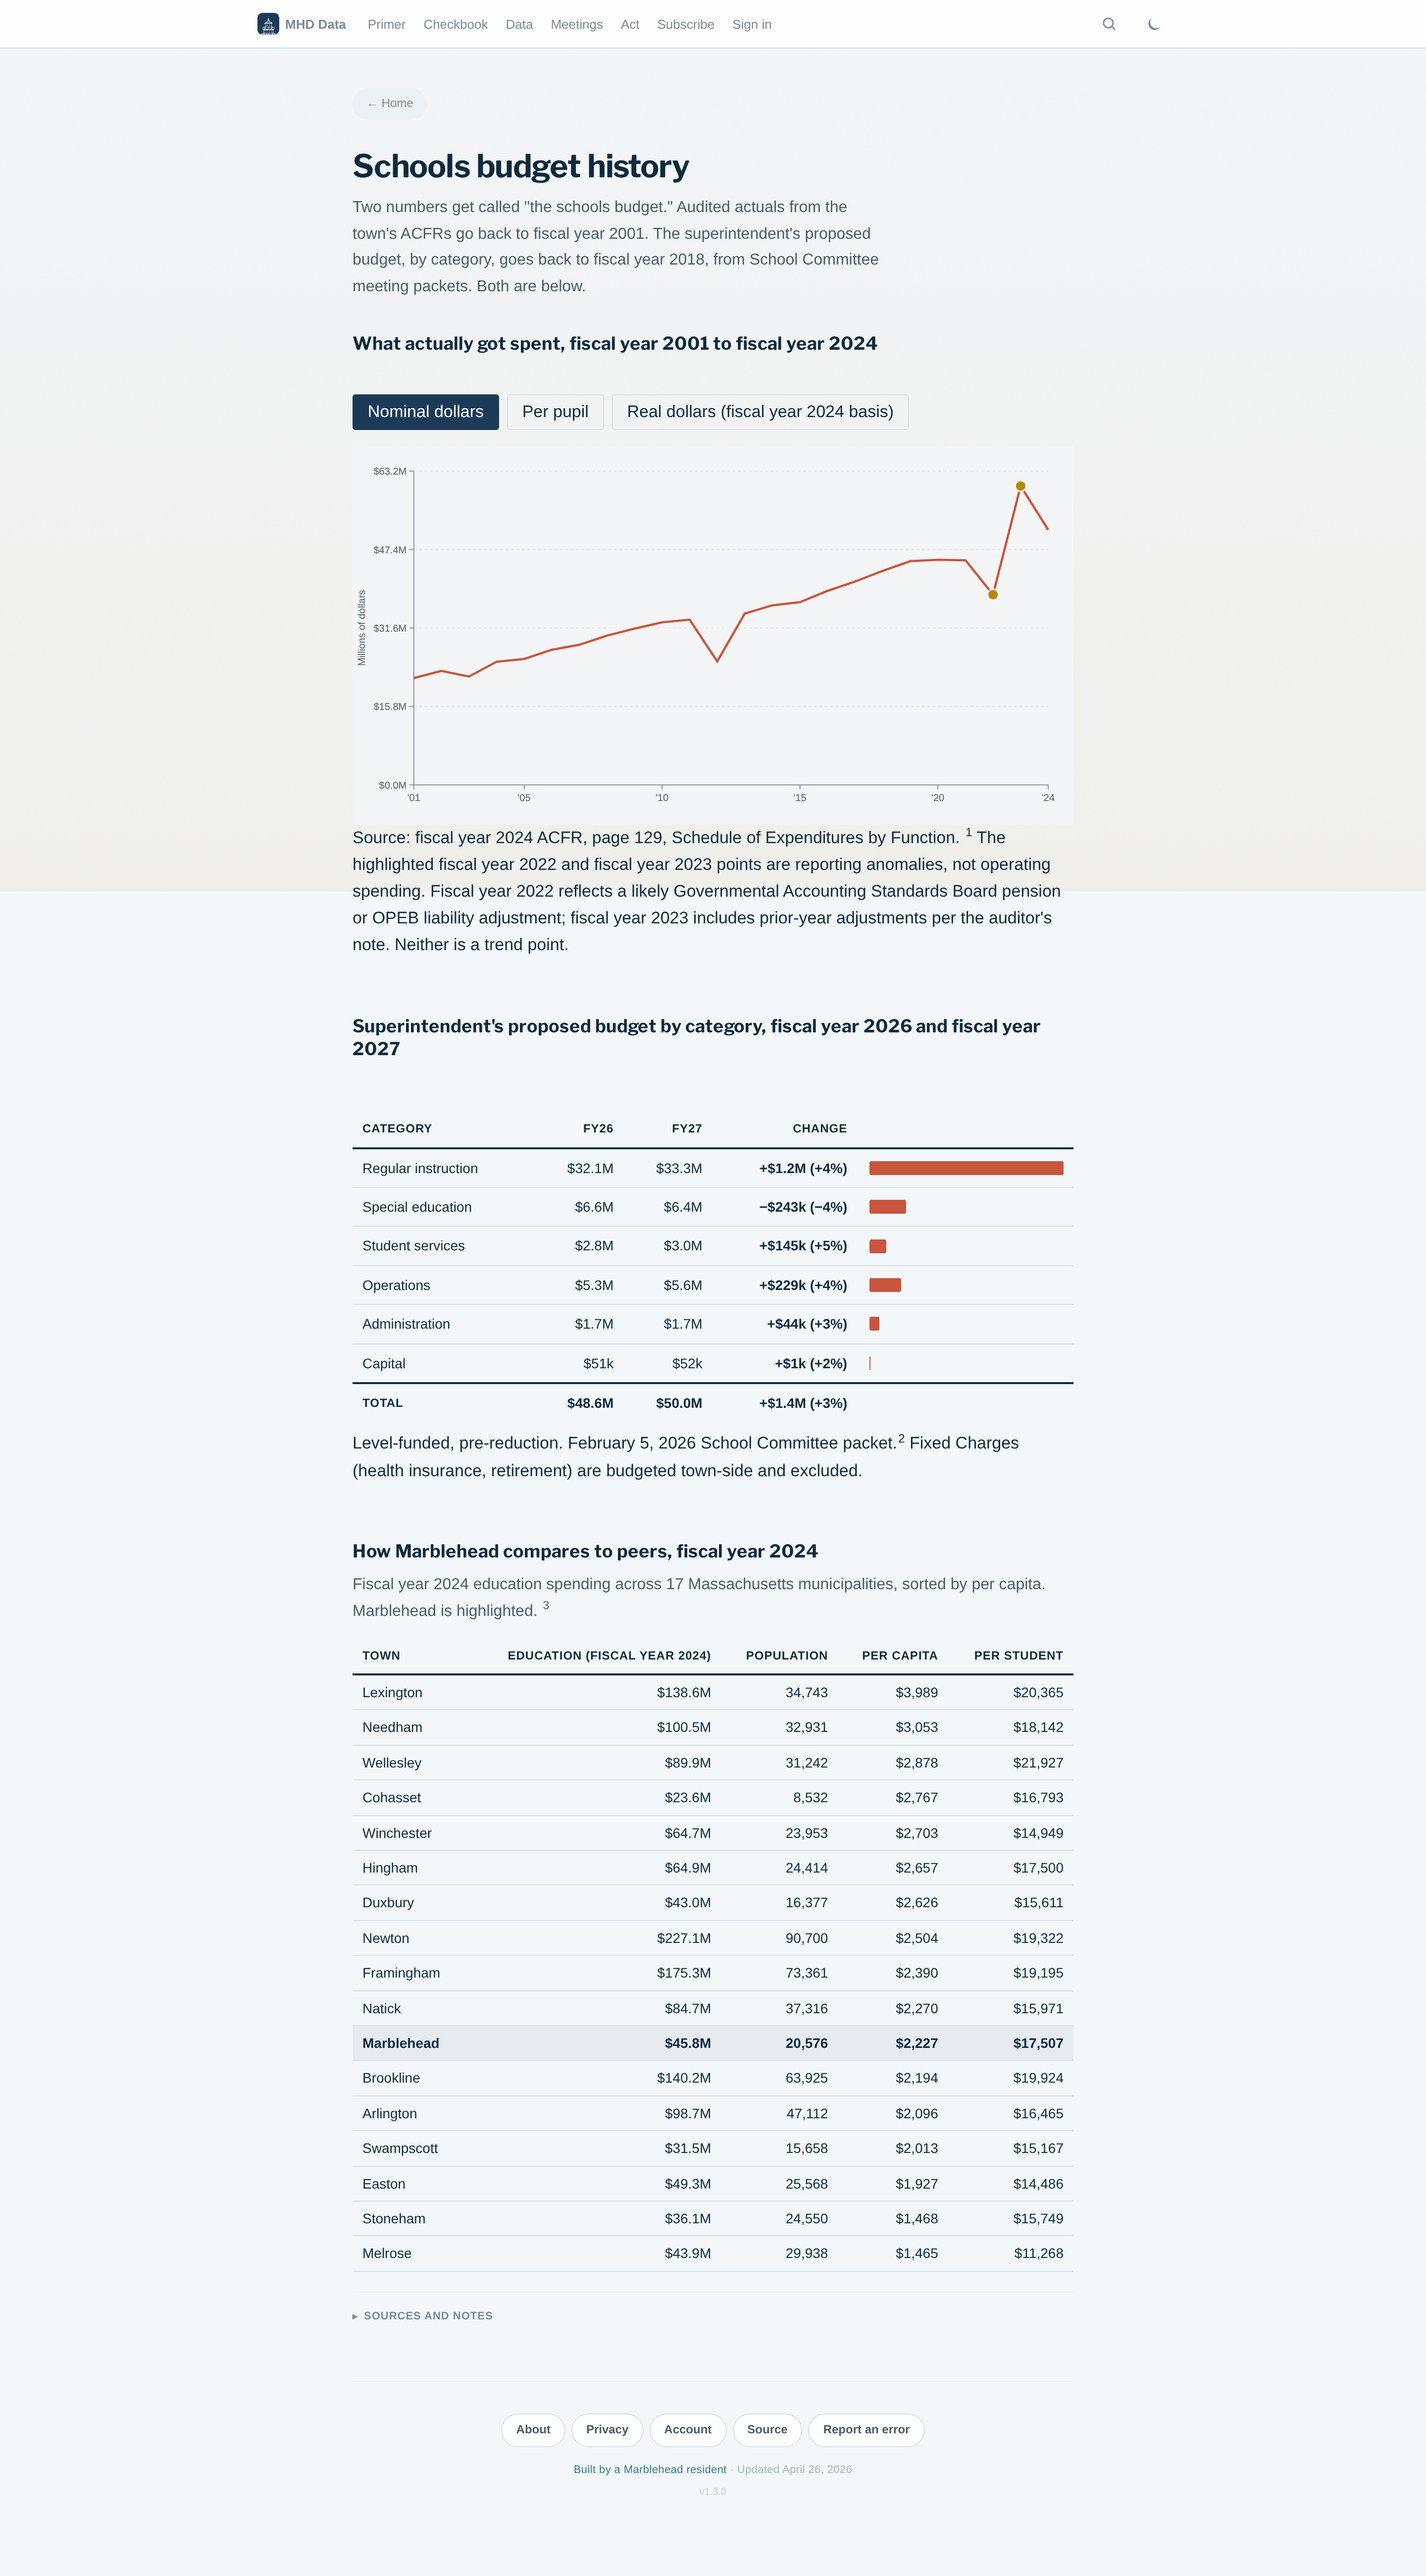
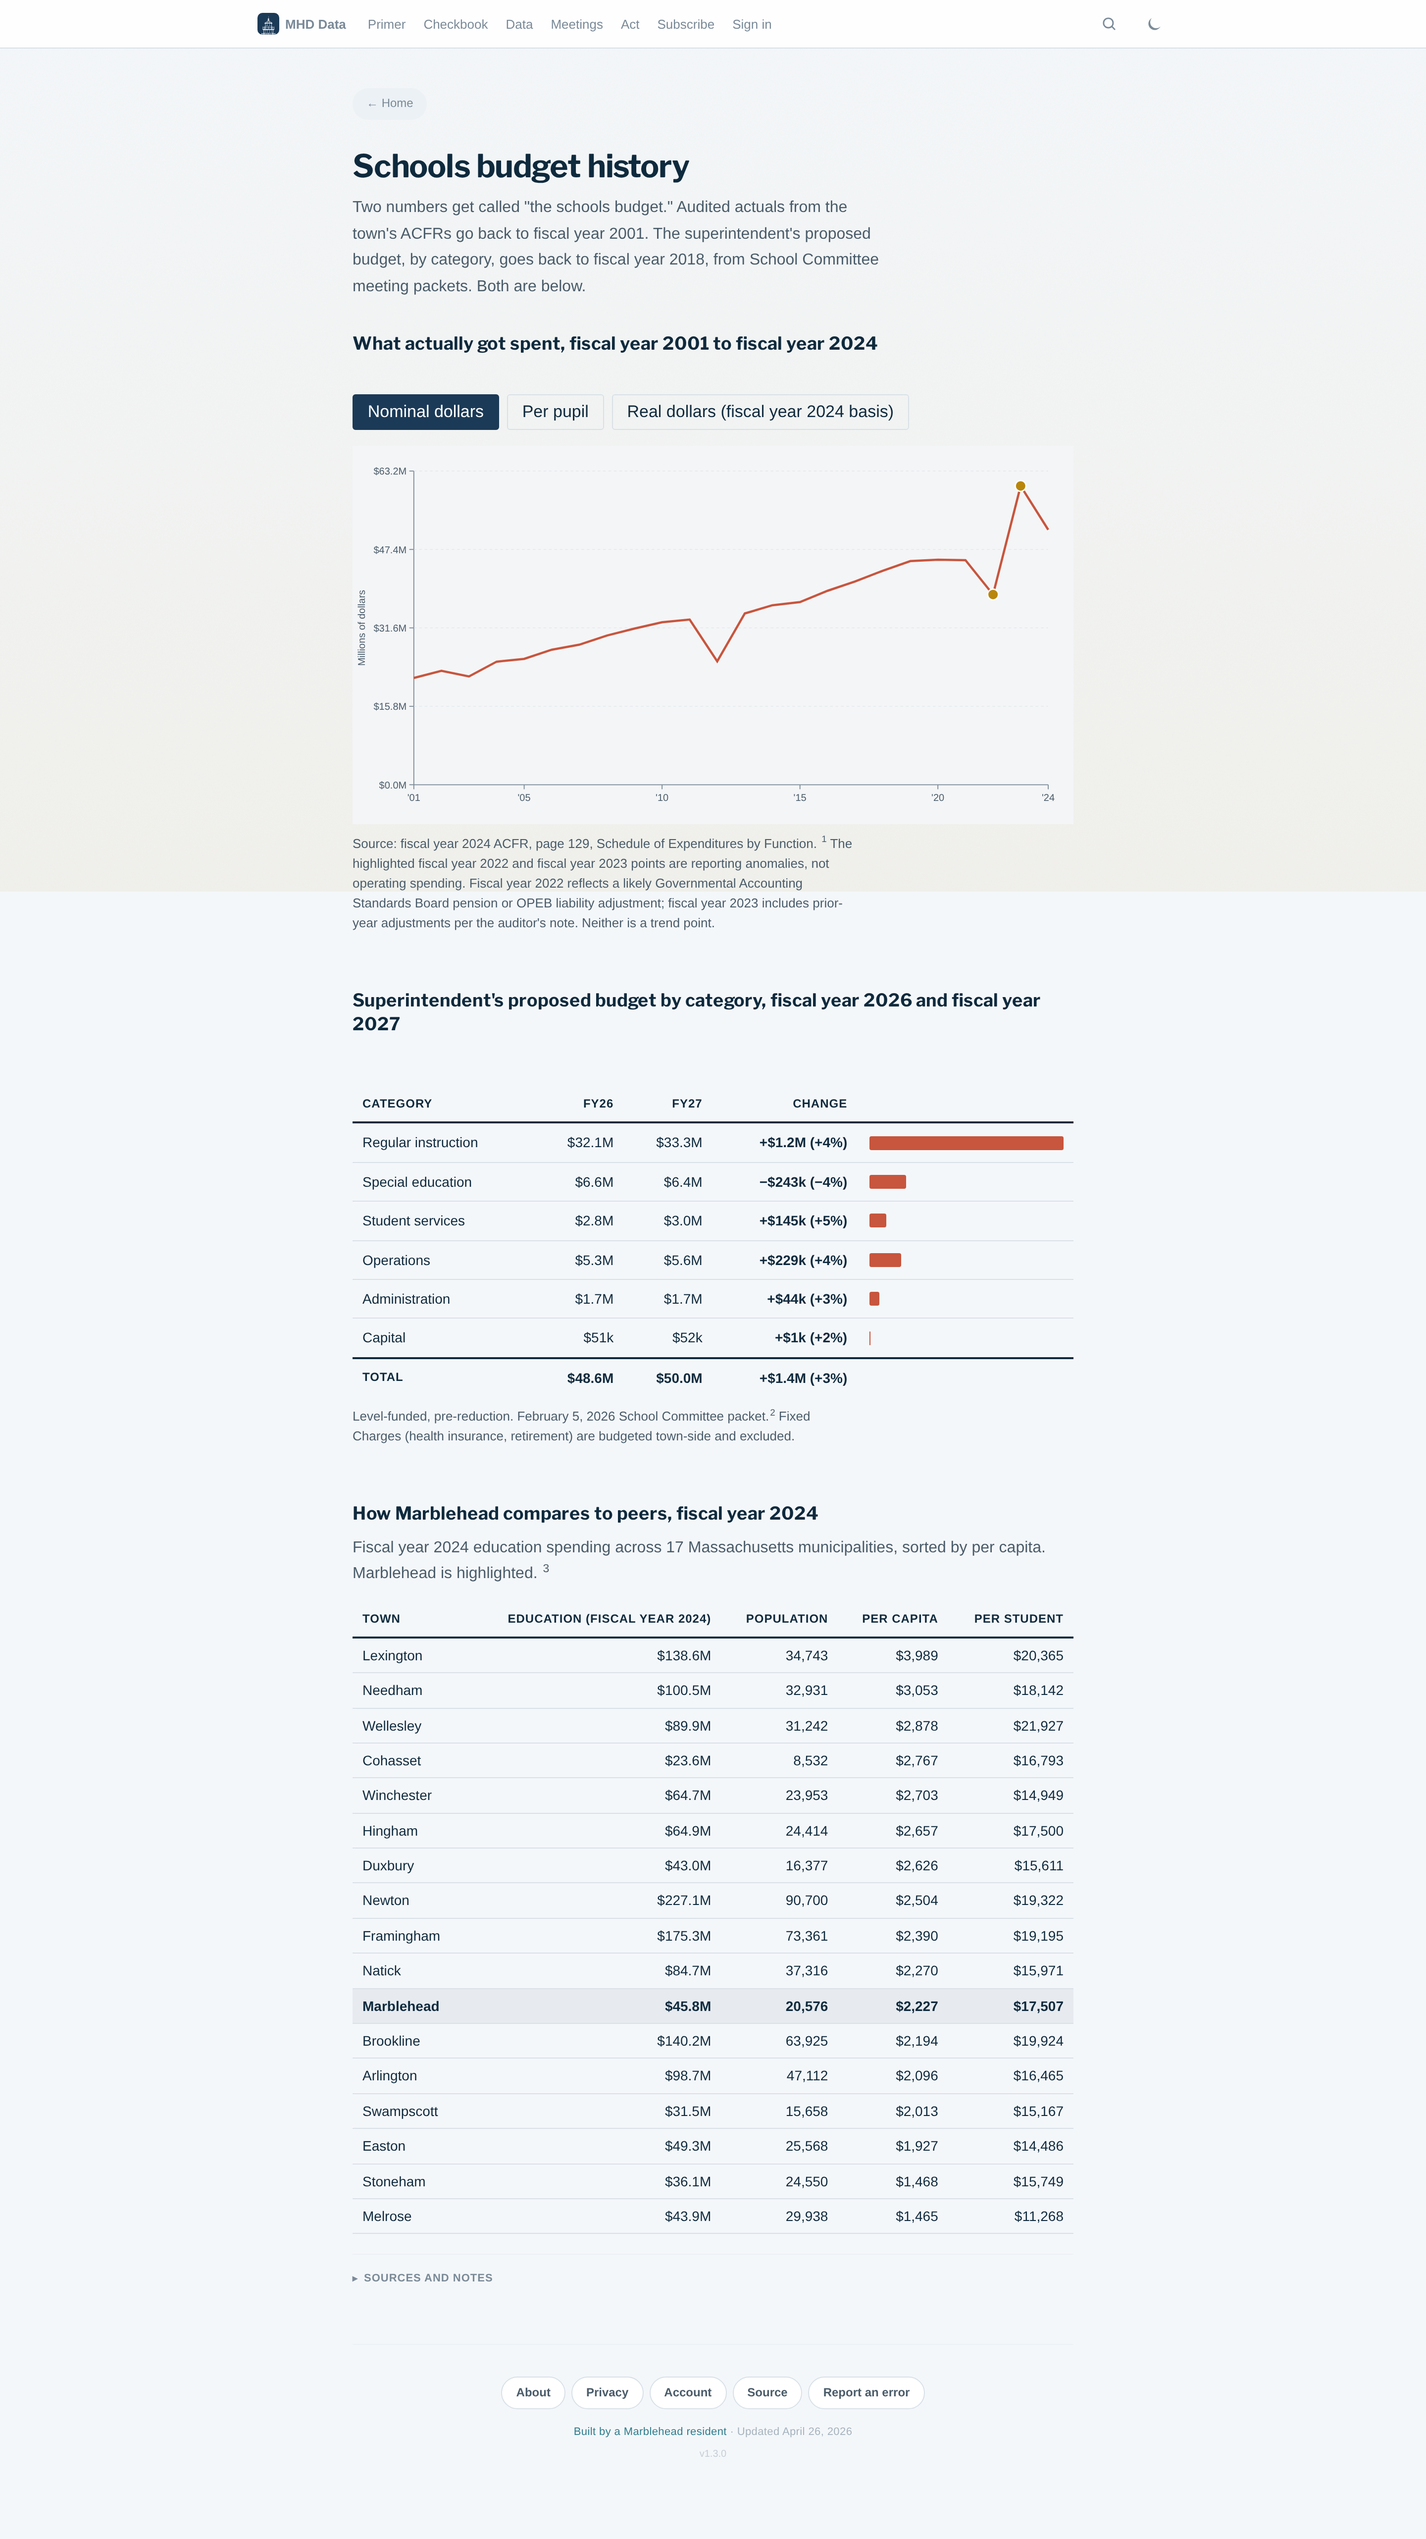
schools-budget: style figcaption to match site caption convention
Was inheriting browser default figcaption styling (italic in some UAs,
same size as body text). Now matches the site's small-muted-caption
pattern used elsewhere (13px, --text-muted, tighter line-height,
70ch max-width).

Applies to both the Panel 1 caption (ACFR source + anomaly note) and
Panel 2 caption (Feb 2026 packet source + Fixed Charges note).

Generated with [Claude Code](https://claude.ai/code)
via [Happy](https://happy.engineering)

diff --git a/schools-budget.html b/schools-budget.html
@@ -66,6 +66,13 @@ og_url: https://marbleheaddata.org/schools-budget.html
     font-size: 11px;
     font-family: inherit;
   }
+  figcaption {
+    font-size: 13px;
+    line-height: 1.55;
+    color: var(--text-muted);
+    margin-top: 10px;
+    max-width: 70ch;
+  }
   .chart-anomaly {
     fill: var(--c-brass);
     stroke: var(--surface);
